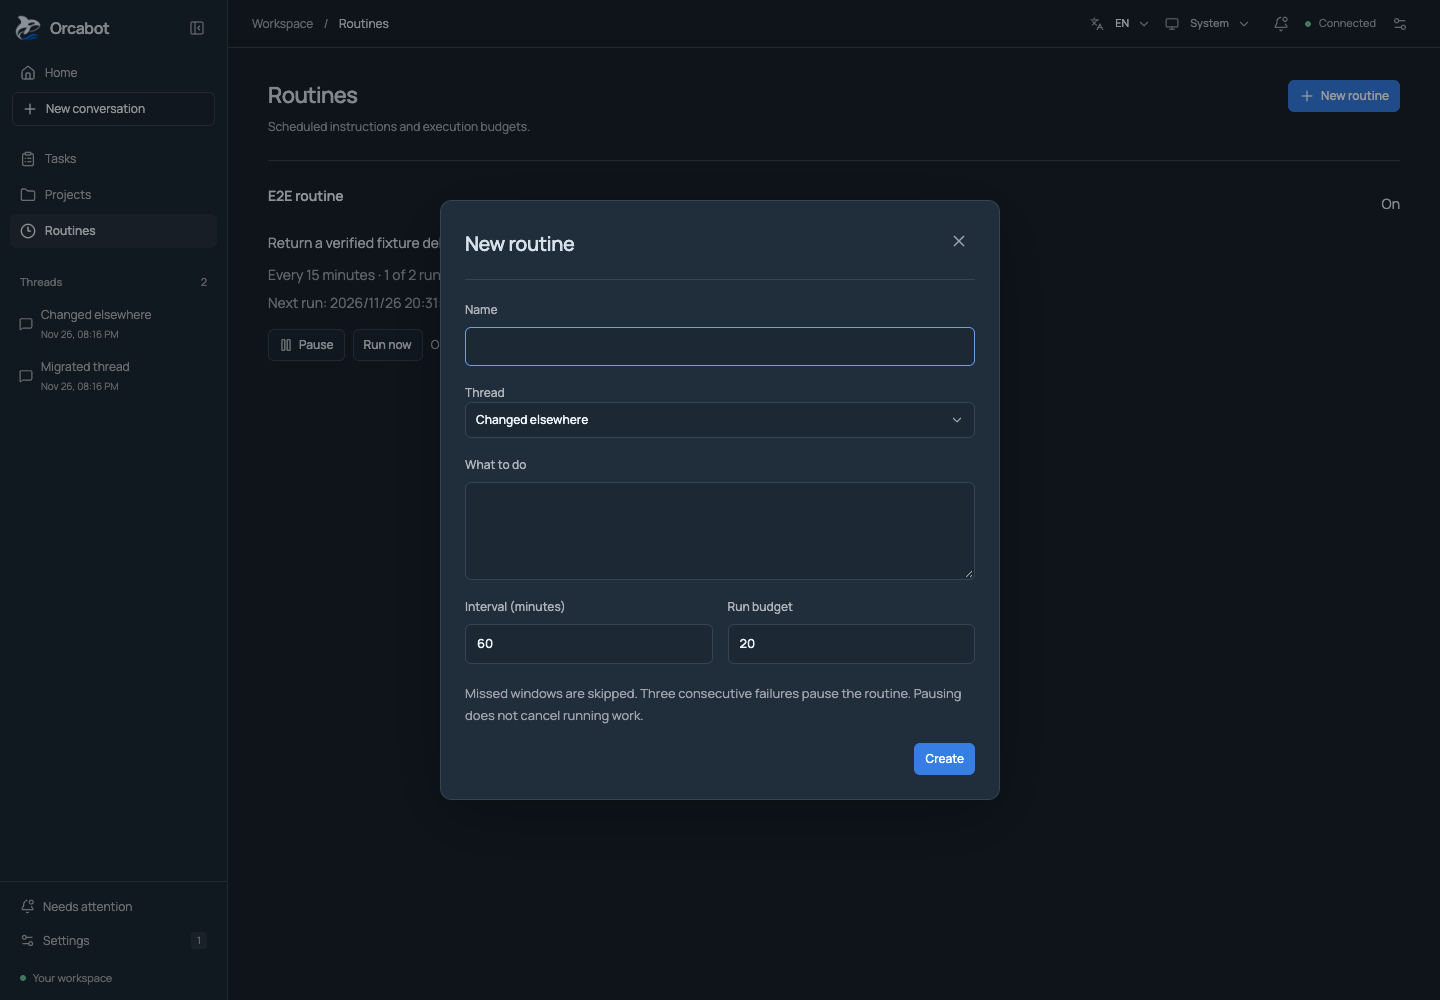
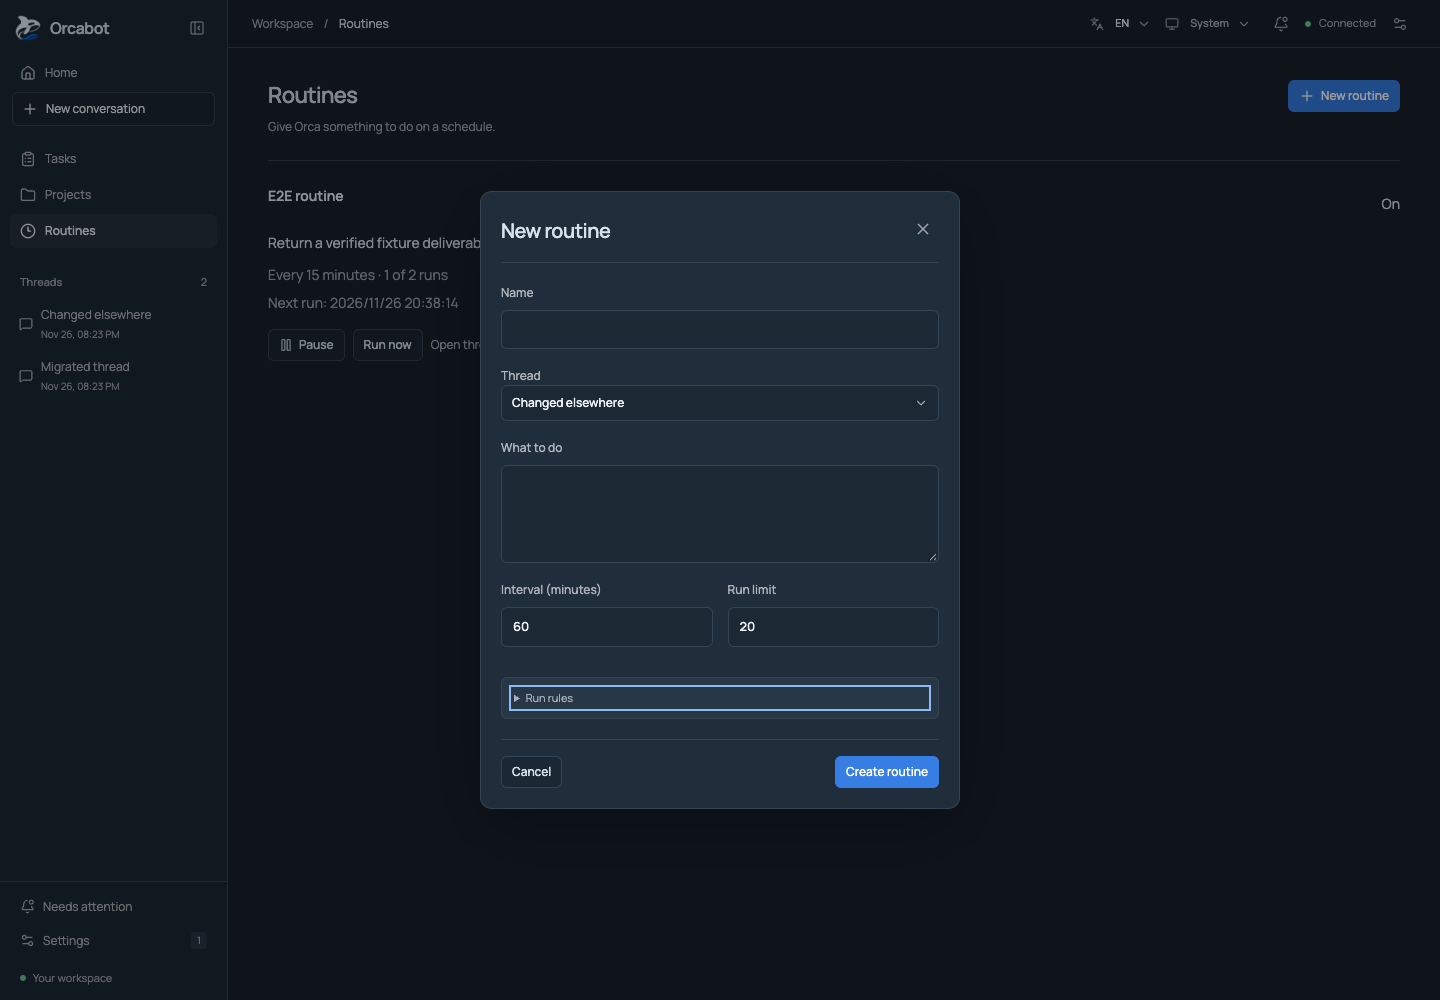
feat(ui): simplify project and routine organization

Changed region(s): [[0.2812, 0.186, 0.7188, 0.806], [0.1875, 0.124, 0.375, 0.155], [0.5, 0.589, 0.5625, 0.651]]

diff --git a/apps/web/src/Automation.tsx b/apps/web/src/Automation.tsx
@@ -15,7 +15,7 @@ export function Automation({
   state: State;
   mode: "projects" | "routines";
 }) {
-  const { t } = useI18n(),
+  const { t, locale } = useI18n(),
     client = useQueryClient(),
     navigate = useNavigate();
   const [creating, setCreating] = useState(false),
@@ -68,15 +68,15 @@ export function Automation({
     }
   }
   return (
-    <div className="board-page">
+    <div className={`board-page automation-page ${mode}-page`}>
       <div className="board-heading">
         <div>
           <h1>{t(mode === "projects" ? "Projects" : "Routines")}</h1>
           <p className="muted">
             {t(
               mode === "projects"
-                ? "Project workspaces and their threads."
-                : "Scheduled instructions and execution budgets.",
+                ? "Keep related conversations together."
+                : "Give Orca something to do on a schedule.",
             )}
           </p>
         </div>
@@ -258,14 +258,14 @@ export function Automation({
           <p>
             {t(
               mode === "projects"
-                ? "Create a project from an agent workspace, then start a thread."
-                : "Choose a thread, an instruction and a bounded schedule.",
+                ? "Keep a shared goal and its conversations in one place."
+                : "Choose a conversation and tell Orca what to repeat.",
             )}
           </p>
         </div>
       )}
       {mode === "projects" && state.conversations.some((c) => !c.projectId) && (
-        <section className="board-card mt-6">
+        <section className="unassigned-threads mt-6">
           <h2>{t("Other threads")}</h2>
           <div className="project-threads">
             {state.conversations
@@ -280,7 +280,16 @@ export function Automation({
                       })
                     }
                   >
-                    {c.title}
+                    <span>
+                      {c.title}
+                      {c.archived ? " · " + t("Archived") : ""}
+                    </span>
+                    <small>
+                      {new Date(c.createdAt).toLocaleDateString(
+                        locale === "zh" ? "zh-CN" : "en-US",
+                        { month: "short", day: "numeric" },
+                      )}
+                    </small>
                   </button>
                   <button
                     className="text-button"
@@ -336,6 +345,10 @@ function CreateAutomation({
   save: (body: Record<string, unknown>) => Promise<void>;
 }) {
   const { t } = useI18n();
+  const available =
+    mode === "projects"
+      ? state.agents.length > 0
+      : state.conversations.some((c) => !c.archived);
   const form = useForm({
     defaultValues: {
       name: "",
@@ -363,10 +376,10 @@ function CreateAutomation({
     <Dialog
       title={t(mode === "projects" ? "New project" : "New routine")}
       onClose={onClose}
+      className="automation-dialog"
     >
-      <div className="flex items-center justify-between">
+      <div className="dialog-heading">
         <div>
-          <div className="eyebrow">ORCABOT</div>
           <h2>{t(mode === "projects" ? "New project" : "New routine")}</h2>
         </div>
         <button
@@ -403,25 +416,35 @@ function CreateAutomation({
           )}
         </form.Field>
         {mode === "projects" ? (
-          <form.Field name="agentId">
-            {(f) => (
-              <label>
-                {t("Agent")}
-                <Select
-                  required
-                  value={f.state.value}
-                  onValueChange={(next) => f.handleChange(next)}
-                >
-                  <option value="">{t("Choose an agent")}</option>
-                  {state.agents.map((a) => (
-                    <option key={a.id} value={a.id}>
-                      {a.name} · {a.workdir}
-                    </option>
-                  ))}
-                </Select>
-              </label>
-            )}
-          </form.Field>
+          <>
+            <form.Field name="agentId">
+              {(f) => (
+                <label>
+                  {t("Agent")}
+                  <Select
+                    required
+                    value={f.state.value}
+                    onValueChange={(next) => f.handleChange(next)}
+                  >
+                    <option value="">{t("Choose an agent")}</option>
+                    {state.agents.map((a) => (
+                      <option key={a.id} value={a.id}>
+                        {a.name}
+                      </option>
+                    ))}
+                  </Select>
+                </label>
+              )}
+            </form.Field>
+            <form.Subscribe selector={(s) => s.values.agentId}>
+              {(id) => (
+                <details className="advanced project-directory">
+                  <summary>{t("Working directory")}</summary>
+                  <code>{state.agents.find((a) => a.id === id)?.workdir}</code>
+                </details>
+              )}
+            </form.Subscribe>
+          </>
         ) : (
           <>
             <form.Field name="conversationId">
@@ -478,7 +501,7 @@ function CreateAutomation({
               <form.Field name="maxRuns">
                 {(f) => (
                   <label>
-                    {t("Run budget")}
+                    {t("Run limit")}
                     <input
                       type="number"
                       required
@@ -491,20 +514,43 @@ function CreateAutomation({
                 )}
               </form.Field>
             </div>
-            <p className="muted mb-5">
-              {t(
-                "Missed windows are skipped. Three consecutive failures pause the routine. Pausing does not cancel running work.",
-              )}
-            </p>
+            <details className="advanced routine-rules">
+              <summary>{t("Run rules")}</summary>
+              <p className="muted">
+                {t(
+                  "Missed windows are skipped. Three consecutive failures pause the routine. Pausing does not cancel running work.",
+                )}
+              </p>
+            </details>
           </>
         )}
-        <form.Subscribe selector={(s) => s.isSubmitting}>
-          {(busy) => (
-            <button className="button primary" disabled={busy}>
-              {t(busy ? "Saving…" : "Create")}
-            </button>
-          )}
-        </form.Subscribe>
+        {!available && (
+          <p role="alert" className="notice">
+            {t(
+              mode === "projects"
+                ? "Create an agent before assigning work."
+                : "Start a conversation before creating a routine.",
+            )}
+          </p>
+        )}
+        <div className="dialog-footer">
+          <button type="button" className="button" onClick={onClose}>
+            {t("Cancel")}
+          </button>
+          <form.Subscribe selector={(s) => s.isSubmitting}>
+            {(busy) => (
+              <button className="button primary" disabled={busy || !available}>
+                {t(
+                  busy
+                    ? "Saving…"
+                    : mode === "projects"
+                      ? "Create project"
+                      : "Create routine",
+                )}
+              </button>
+            )}
+          </form.Subscribe>
+        </div>
       </form>
     </Dialog>
   );
@@ -528,8 +574,12 @@ function ThreadEditor({
   const [title, setTitle] = useState(thread.title);
   const [projectId, setProjectId] = useState(thread.projectId ?? "");
   return (
-    <Dialog title={t("Manage thread")} onClose={onClose}>
-      <div className="flex items-center justify-between">
+    <Dialog
+      title={t("Manage thread")}
+      onClose={onClose}
+      className="automation-dialog"
+    >
+      <div className="dialog-heading">
         <h2>{t("Manage thread")}</h2>
         <button
           className="icon-button"
@@ -578,9 +628,9 @@ function ThreadEditor({
             ))}
           </Select>
         </label>
-        <div className="automation-actions">
+        <div className="dialog-footer thread-editor-footer">
           <button
-            className="button"
+            className="button subtle-danger"
             type="button"
             disabled={busy}
             onClick={() =>
@@ -591,6 +641,9 @@ function ThreadEditor({
             }
           >
             {t(thread.archived ? "Restore thread" : "Archive thread")}
+          </button>
+          <button type="button" className="button" onClick={onClose}>
+            {t("Cancel")}
           </button>
           <button className="button primary" disabled={busy}>
             {t("Save changes")}

diff --git a/apps/web/src/styles.css b/apps/web/src/styles.css
@@ -2743,3 +2743,67 @@ a.artifact-location {
     min-height: 44px;
   }
 }
+
+/* Project and routine dialogs share the personal-work organization system. */
+.setup-panel.automation-dialog {
+  width: min(480px, 100%);
+  padding: 20px;
+}
+.automation-dialog .dialog-heading {
+  margin-bottom: 0;
+}
+.automation-dialog input,
+.automation-dialog .select-trigger {
+  min-height: 36px;
+}
+.automation-dialog textarea {
+  min-height: 84px;
+}
+.automation-dialog .advanced {
+  margin: 12px 0 16px;
+}
+.project-directory code {
+  display: block;
+  overflow-wrap: anywhere;
+  font-size: 11px;
+  padding-top: 10px;
+}
+.routine-rules p {
+  margin: 10px 0 0;
+  font-size: 12px;
+  line-height: 1.6;
+}
+.unassigned-threads {
+  border-top: 1px solid var(--border);
+  padding-top: 20px;
+}
+.unassigned-threads h2 {
+  font-size: 14px;
+  font-weight: 550;
+}
+.project-threads > div {
+  min-height: 52px;
+}
+.project-threads small {
+  display: block;
+  color: var(--muted);
+  font-size: 11px;
+  margin-top: 4px;
+}
+.subtle-danger {
+  color: var(--danger);
+}
+.thread-editor-footer {
+  flex-wrap: wrap;
+}
+@media (max-width: 640px) {
+  .automation-dialog input,
+  .automation-dialog .select-trigger,
+  .automation-dialog button {
+    min-height: 44px;
+  }
+  .thread-editor-footer .subtle-danger {
+    flex-basis: 100%;
+    margin-right: 0;
+  }
+}

diff --git a/apps/web/src/messages.ts b/apps/web/src/messages.ts
@@ -504,4 +504,16 @@ export const chinese = {
   "Show less": "收起",
   "No active channels are available. Create or restore a channel before assigning a task.":
     "没有可用的频道。请先创建或恢复一个频道，再分配任务。",
+  "Keep related conversations together.": "把相关对话放在一起。",
+  "Give Orca something to do on a schedule.": "让 Orca 按时帮你处理事情。",
+  "Keep a shared goal and its conversations in one place.":
+    "把共同目标与相关对话整理在一个项目中。",
+  "Choose a conversation and tell Orca what to repeat.":
+    "选择一段对话，告诉 Orca 哪件事需要重复处理。",
+  "Run limit": "执行次数上限",
+  "Run rules": "执行规则",
+  "Start a conversation before creating a routine.":
+    "请先开始一段对话，再创建例行任务。",
+  "Create project": "创建项目",
+  "Create routine": "创建例行任务",
 } as const;

diff --git a/docs/design-review/2026-11-26/README.md b/docs/design-review/2026-11-26/README.md
@@ -49,11 +49,15 @@ The image quota reset. The [actual home/landing comparison image](references/per
 
 `pnpm check` passes172tests:150passed and22platform skips. Home regression coverage includes admission/discovery, partial task pagination and protected-URL unlock retry. Shared controls and workflow checks remain included. The read-only activity API has separate authentication, privacy and bounded-result tests.
 
+## Tasks and work organization
+
+The task list, delivery/activity detail and creation sheet now follow the [actual task image](references/tasks-gemini.jpg); [decisions and boundary fixes](references/task-review.md) are recorded. The [project](references/projects-gemini.jpg) and [routine](references/routines-attention-gemini.jpg) images also back the implemented project/thread/routine surfaces. Their [implementation notes](references/organization-review.md) identify generated capabilities that were deliberately not adopted.
+
+The current E2E suite passes25checks. Project, thread-edit and routine Cancel actions discard drafts; routine execution still returns to the original thread and retains interval/run-limit guards.
+
 ## Remaining work
 
-The [actual task comparison image](references/tasks-gemini.jpg) covers the list, task details and creation surface; these surfaces now follow its list, delivery/timeline and right-side creation layout. See [task implementation decisions](references/task-review.md). The [project comparison image](references/projects-gemini.jpg) has also been downloaded; implementation is pending. Remaining surfaces have text critiques and are not marked complete.
-
-Follow-ups include a result-first conversation, human-readable task activity, a clearer decision queue and compact dialog footers. The completion gate requires actual images and verification for every core page, not only setup and Home. The [personal assistant direction](../../en/personal-agent-experience.md) describes this shared product model.
+Attention has an actual visual reference and is next to implement. Conversation, execution approvals, deliverable references and mobile navigation have text critiques; a new generated comparison image is pending. These surfaces are not marked complete. The completion gate requires image-backed changes and verification for every listed core page.
 
 Capture files contain only task-created example data. Raw native captures and
 credentials stay outside the tracked evidence. Some later `before/` captures

diff --git a/docs/design-review/2026-11-26/README.zh-CN.md b/docs/design-review/2026-11-26/README.zh-CN.md
@@ -32,11 +32,15 @@ Agent、本机连接、远端连接三个配置变体按照第一张生成图整
 
 `pnpm check`共172项测试，150项通过、22项平台跳过。首页新增验证覆盖委托后找回原对话、较早任务分页、错误密钥重试和保留原任务链接；共享控件与工作流用例仍在。有界活动接口另外验证了授权、隐私与结果范围。
 
+## 任务与工作整理
+
+任务列表、交付/活动详情与创建抽屉已按照[实际任务图稿](references/tasks-gemini.jpg)实现，[实现说明](references/task-review.md)记录边界修复。[项目](references/projects-gemini.jpg)和[例行任务](references/routines-attention-gemini.jpg)图稿也已用于项目、线程管理和例行任务界面；[实现取舍](references/organization-review.md)明确了没有采用的图稿虚构能力。
+
+当前25组浏览器流程检查通过。项目、线程编辑、例行任务的取消不会保存草稿；例行执行仍回到原线程，并保留间隔和次数上限。
+
 ## 剩余工作
 
-[任务三屏实际图稿](references/tasks-gemini.jpg)已生成，对应列表、详情与创建界面，已按图实现列表、交付/活动详情和右侧创建抽屉，见[任务实现说明](references/task-review.md)。[项目三屏实际图稿](references/projects-gemini.jpg)也已下载，等待实现。其他页面已完成文字审阅，没有标为完成。
-
-后续重点包括结果优先的对话、可理解的任务活动、明确的待决策入口和统一弹窗页脚。每个核心页面都获得实际图稿、完成整改和验证后，整个流程才算完成。[个人助手方向](../../zh-CN/personal-agent-experience.md)说明了统一的产品模型。
+待处理事项已有实际图稿，接下来实施。对话、执行授权、交付引用与手机导航已有文字审阅，新对照图正在请求中，没有标为完成。每个列出的核心页面都完成按图整改与验证后，整个流程才算完成。
 
 追踪截图只包含任务创建的示例数据；原始系统窗口截图与凭据不提交。部分较晚的 `before/` 截图已包含共享控件整改的中间状态，它们是页面审阅输入，不表示全部来自最早 Git 基线。
 

diff --git a/docs/design-review/2026-11-26/references/organization-review.md b/docs/design-review/2026-11-26/references/organization-review.md
@@ -1,0 +1,9 @@
+# Projects, threads and routines
+
+The actual [project comparison](projects-gemini.jpg) and [routine/attention comparison](routines-attention-gemini.jpg) were downloaded before implementation. The former covers Projects, New project and Manage thread; the latter covers Routines and its creation dialog, with Attention tracked separately.
+
+Dialogs now share a compact480px frame and Cancel/explicit primary footer. Project directory context is real and read-only, disclosed below the Agent selector. Thread archival stays separate from saving name/project edits. Unassigned threads use consistent lightweight rows with actual dates. Routine copy describes repeated work; interval and numeric run limit remain visible, with the existing scheduling/failure rules available on demand.
+
+The routine image invents working-day calendars, daily9AM schedules and unlimited execution. These are not implemented: the existing bounded interval and maximum-run contract remains authoritative. It also reintroduces old sidebar labels; the already reviewed Home/Tasks/Settings organization is retained. The image's immediate business Accept/Decline actions are not adopted: actual evidence review and guarded transitions stay in task detail.
+
+Web typecheck/build pass. The25-check E2E suite checks Cancel without writes for project creation, thread rename and routine creation, plus original thread identity, stale-revision feedback, manual routine execution, pause/resume and preference persistence. Independent code reviews approved; the spec reviewer also ran automation tests9/9. Actual light-mode screenshots and a mobile routine dialog are retained. No real recurring job was enabled merely to produce a screenshot.
